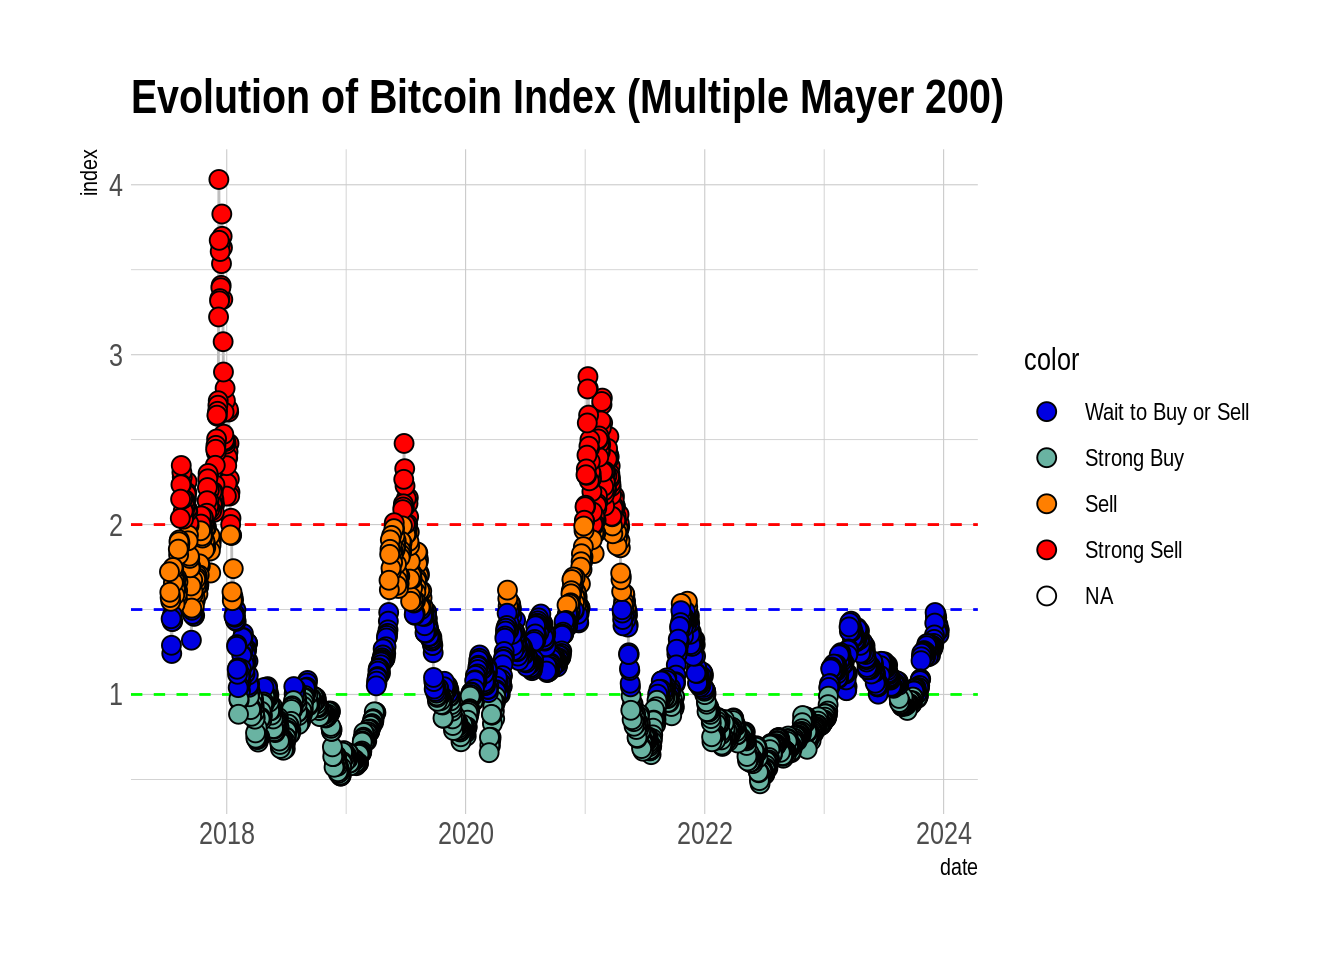
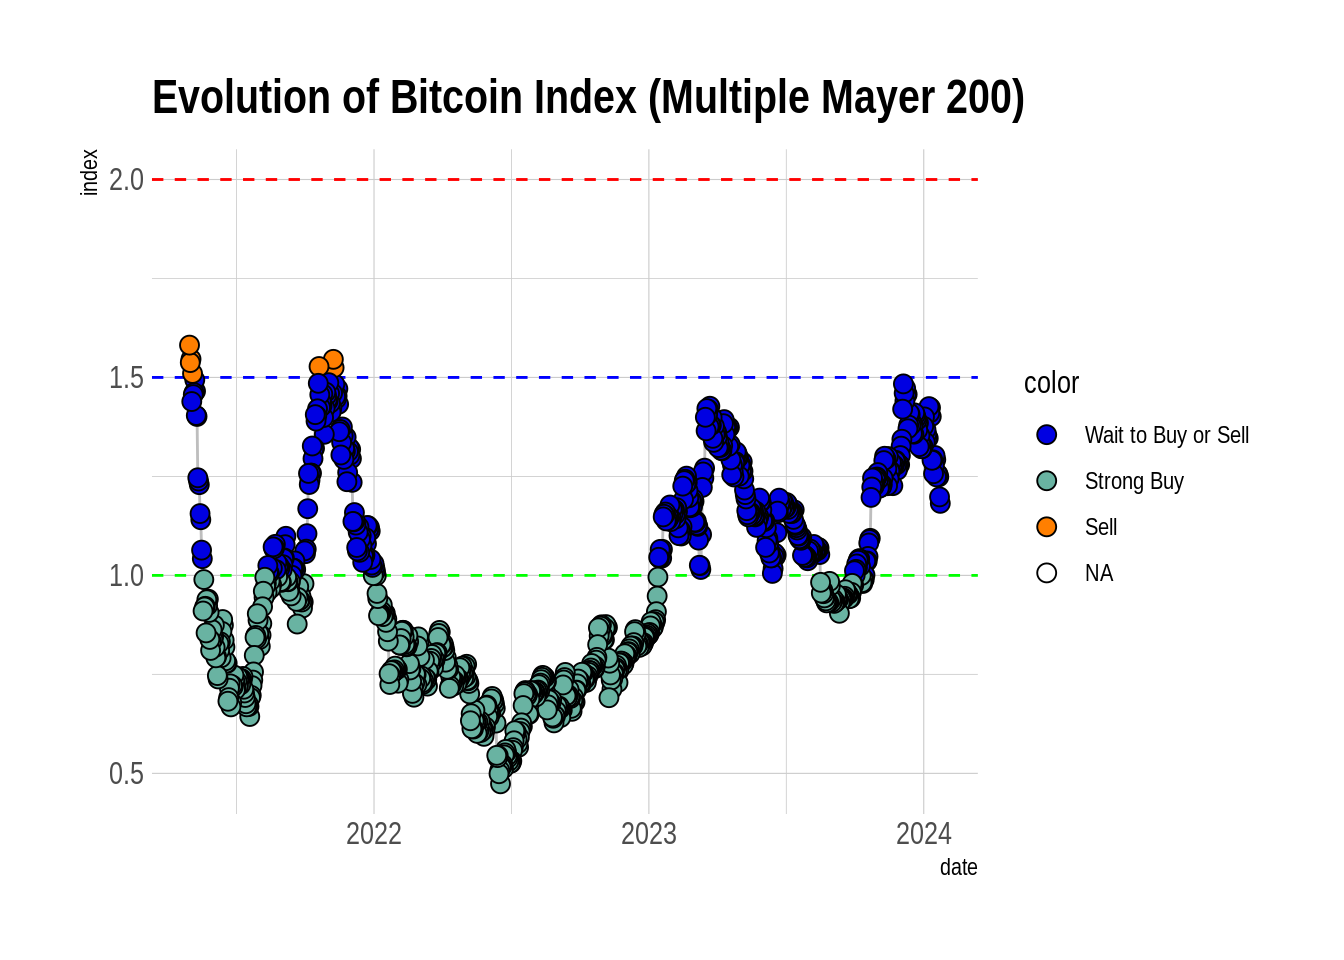
adding binancer as API

diff --git a/docs/index.html b/docs/index.html
@@ -382,7 +382,7 @@ aria-hidden="true"></span> </a>
 <div class="tab-content">
 <div id="summary" class="tab-pane fade in active">
 <p>
-<strong>Last updated:</strong> 2023-12-19
+<strong>Last updated:</strong> 2024-01-23
 </p>
 <p>
 <strong>Checks:</strong> <span
@@ -516,15 +516,15 @@ project makes it easier to run your code on other machines.</p>
 <div class="panel panel-default">
 <div class="panel-heading">
 <p class="panel-title">
-<a data-toggle="collapse" data-parent="#workflowr-checks" href="#strongRepositoryversionstrongahrefhttpsgithubcomchris263bitcoinindextreeeff8330eb4986a6d1a1f6700b33eaec67128eb2btargetblankeff8330a">
+<a data-toggle="collapse" data-parent="#workflowr-checks" href="#strongRepositoryversionstrongahrefhttpsgithubcomchris263bitcoinindextree860eef690451526f27e5e2716fdee915b13ebaaetargetblank860eef6a">
 <span class="glyphicon glyphicon-ok text-success"
 aria-hidden="true"></span> <strong>Repository version:</strong>
-<a href="https://github.com/chris263/bitcoin_index/tree/eff8330eb4986a6d1a1f6700b33eaec67128eb2b" target="_blank">eff8330</a>
+<a href="https://github.com/chris263/bitcoin_index/tree/860eef690451526f27e5e2716fdee915b13ebaae" target="_blank">860eef6</a>
 </a>
 </p>
 </div>
 <div
[2 lines of base64/hex data omitted]
 class="panel-collapse collapse">
 <div class="panel-body">
 <p>
@@ -534,7 +534,7 @@ reproducibility.
 </p>
 <p>
 The results in this page were generated with repository version
-<a href="https://github.com/chris263/bitcoin_index/tree/eff8330eb4986a6d1a1f6700b33eaec67128eb2b" target="_blank">eff8330</a>.
+<a href="https://github.com/chris263/bitcoin_index/tree/860eef690451526f27e5e2716fdee915b13ebaae" target="_blank">860eef6</a>.
 See the <em>Past versions</em> tab to see a history of the changes made
 to the R Markdown and HTML files.
 </p>
@@ -600,6 +600,57 @@ Message
 </tr>
 </thead>
 <tbody>
+<tr>
+<td>
+Rmd
+</td>
+<td>
+<a href="https://github.com/chris263/bitcoin_index/blob/860eef690451526f27e5e2716fdee915b13ebaae/analysis/index.Rmd" target="_blank">860eef6</a>
+</td>
+<td>
+chris263
+</td>
+<td>
+2023-12-19
+</td>
+<td>
+consertando palavra errada
+</td>
+</tr>
+<tr>
+<td>
+Rmd
+</td>
+<td>
+<a href="https://github.com/chris263/bitcoin_index/blob/b95bb448ab4bb857e33365d2131c764535479bd8/analysis/index.Rmd" target="_blank">b95bb44</a>
+</td>
+<td>
+chris263
+</td>
+<td>
+2023-12-19
+</td>
+<td>
+arrumando a coleta de dados com as datas
+</td>
+</tr>
+<tr>
+<td>
+html
+</td>
+<td>
+<a href="https://rawcdn.githack.com/chris263/bitcoin_index/b95bb448ab4bb857e33365d2131c764535479bd8/docs/index.html" target="_blank">b95bb44</a>
+</td>
+<td>
+chris263
+</td>
+<td>
+2023-12-19
+</td>
+<td>
+arrumando a coleta de dados com as datas
+</td>
+</tr>
 <tr>
 <td>
 Rmd
@@ -813,26 +864,25 @@ Start workflowr project.
 </div>
 <div id="resumo" class="section level2">
 <h2>Resumo</h2>
-<p>A ideia é capturar os dados usando como fonte o yahoo finance. A
-partir disso, calculamos o indice de Mayer(valor do momento do bitcoin
-dividido pela média mível dos últimos 200 dias). O intervalo de dados
-que estou usando é de Janeiro de 2017 até hoje.<br />
+<p>A ideia é capturar os dados usando como fonte o binancer. A partir
+disso, calculamos o indice de Mayer(valor do momento do bitcoin dividido
+pela média móvel dos últimos 200 dias).<br />
 A decisão é tomada de de acordo com:<br />
 Index &lt; 1 significa “Strong Buy”.<br />
 1 &lt; Index &lt; 1.5 Significa esperar um pouco para obersvar o
 mercado.<br />
 Index &gt; 1.5 Significa vender.<br />
 Index &gt; 2 Venda logo!!.</p>
+<p><img src="figure/index.Rmd/gettinData-1.png" width="672" style="display: block; margin: auto;" /><img src="figure/index.Rmd/gettinData-2.png" width="672" style="display: block; margin: auto;" /><img src="figure/index.Rmd/gettinData-3.png" width="672" style="display: block; margin: auto;" /></p>
 </div>
 <div id="calculando-o-indice" class="section level2">
 <h2>Calculando o Indice</h2>
-<p>Seguindo a recomendação para o dia:</p>
-<pre><code>Today 2023-12-19  Multiple Mayer&#39;s index is:  1.38 
- Price =  208744.5 
+<pre><code> Last date: 2024-01-23  Multiple Mayer&#39;s index is:  1.18 
+ Price =  R$ 196,159.00 
  The decision is:  Wait to Buy or Sell </code></pre>
 </div>
-<div id="análise-gráfica-7-anos" class="section level2">
-<h2>Análise Gráfica 7 Anos</h2>
+<div id="análise-gráfica-4-anos" class="section level2">
+<h2>Análise Gráfica 4 Anos</h2>
 <p><img src="figure/index.Rmd/grafico-1.png" width="672" style="display: block; margin: auto;" /></p>
 <p>
 <button type="button" class="btn btn-default btn-xs btn-workflowr btn-workflowr-fig" data-toggle="collapse" data-target="#fig-grafico-1">
@@ -856,6 +906,17 @@ Date
 </tr>
 </thead>
 <tbody>
+<tr>
+<td>
+<a href="https://github.com/chris263/bitcoin_index/blob/b95bb448ab4bb857e33365d2131c764535479bd8/docs/figure/index.Rmd/grafico-1.png" target="_blank">b95bb44</a>
+</td>
+<td>
+chris263
+</td>
+<td>
+2023-12-19
+</td>
+</tr>
 <tr>
 <td>
 <a href="https://github.com/chris263/bitcoin_index/blob/eff8330eb4986a6d1a1f6700b33eaec67128eb2b/docs/figure/index.Rmd/grafico-1.png" target="_blank">eff8330</a>
@@ -1000,41 +1061,45 @@ locale:
  [9] LC_ADDRESS=C               LC_TELEPHONE=C            
 [11] LC_MEASUREMENT=en_US.UTF-8 LC_IDENTIFICATION=C       
 
-time zone: America/New_York
+time zone: America/Sao_Paulo
 tzcode source: system (glibc)
 
 attached base packages:
 [1] stats     graphics  grDevices utils     datasets  methods   base     
 
 other attached packages:
-[1] hrbrthemes_0.8.0 ggplot2_3.4.4    dplyr_1.1.3      crypto2_1.4.5   
+[1] binancer_1.2.0   hrbrthemes_0.8.0 ggplot2_3.4.4    dplyr_1.1.3     
+[5] crypto2_1.4.5   
 
 loaded via a namespace (and not attached):
  [1] gtable_0.3.4            xfun_0.41               bslib_0.5.1            
- [4] vctrs_0.6.4             tools_4.3.2             generics_0.1.3         
- [7] curl_5.1.0              tibble_3.2.1            fansi_1.0.5            
-[10] highr_0.10              pkgconfig_2.0.3         lifecycle_1.0.4        
-[13] farver_2.1.1            compiler_4.3.2          stringr_1.5.0          
-[16] git2r_0.33.0            progress_1.2.2          munsell_0.5.0          
-[19] httpuv_1.6.12           fontquiver_0.2.1        fontLiberation_0.1.0   
-[22] htmltools_0.5.7         sass_0.4.7              yaml_2.3.7             
-[25] Rttf2pt1_1.3.12         later_1.3.1             pillar_1.9.0           
-[28] crayon_1.5.2            jquerylib_0.1.4         whisker_0.4.1          
-[31] extrafontdb_1.0         tidyr_1.3.0             ellipsis_0.3.2         
-[34] gfonts_0.2.0            cachem_1.0.8            mime_0.12              
-[37] fontBitstreamVera_0.1.1 tidyselect_1.2.0        digest_0.6.33          
-[40] stringi_1.7.12          purrr_1.0.2             labeling_0.4.3         
-[43] extrafont_0.19          rprojroot_2.0.4         fastmap_1.1.1          
-[46] grid_4.3.2              colorspace_2.1-0        cli_3.6.1              
-[49] magrittr_2.0.3          crul_1.4.0              utf8_1.2.4             
-[52] withr_2.5.2             prettyunits_1.2.0       gdtools_0.3.5          
-[55] scales_1.2.1            promises_1.2.1          lubridate_1.9.3        
-[58] timechange_0.2.0        rmarkdown_2.25          workflowr_1.7.1        
-[61] hms_1.1.3               shiny_1.7.5.1           evaluate_0.23          
-[64] knitr_1.45              rlang_1.1.2             Rcpp_1.0.11            
-[67] xtable_1.8-4            glue_1.6.2              httpcode_0.3.0         
-[70] rstudioapi_0.15.0       jsonlite_1.8.7          R6_2.5.1               
-[73] plyr_1.8.9              systemfonts_1.0.5       fs_1.6.3               </code></pre>
+ [4] lattice_0.22-5          vctrs_0.6.4             tools_4.3.2            
+ [7] generics_0.1.3          curl_5.1.0              tibble_3.2.1           
+[10] fansi_1.0.5             highr_0.10              xts_0.13.1             
+[13] pkgconfig_2.0.3         data.table_1.14.8       lifecycle_1.0.4        
+[16] farver_2.1.1            compiler_4.3.2          stringr_1.5.0          
+[19] git2r_0.33.0            progress_1.2.2          munsell_0.5.0          
+[22] snakecase_0.11.1        httpuv_1.6.12           fontquiver_0.2.1       
+[25] fontLiberation_0.1.0    htmltools_0.5.7         sass_0.4.7             
+[28] yaml_2.3.7              Rttf2pt1_1.3.12         later_1.3.1            
+[31] pillar_1.9.0            crayon_1.5.2            jquerylib_0.1.4        
+[34] whisker_0.4.1           extrafontdb_1.0         tidyr_1.3.0            
+[37] ellipsis_0.3.2          gfonts_0.2.0            cachem_1.0.8           
+[40] mime_0.12               fontBitstreamVera_0.1.1 tidyselect_1.2.0       
+[43] digest_0.6.33           stringi_1.7.12          purrr_1.0.2            
+[46] labeling_0.4.3          extrafont_0.19          rprojroot_2.0.4        
+[49] fastmap_1.1.1           grid_4.3.2              colorspace_2.1-0       
+[52] cli_3.6.1               logger_0.2.2            magrittr_2.0.3         
+[55] crul_1.4.0              utf8_1.2.4              withr_2.5.2            
+[58] prettyunits_1.2.0       gdtools_0.3.5           scales_1.2.1           
+[61] promises_1.2.1          lubridate_1.9.3         timechange_0.2.0       
+[64] TTR_0.24.4              httr_1.4.7              rmarkdown_2.25         
+[67] quantmod_0.4.25         workflowr_1.7.1         zoo_1.8-12             
+[70] hms_1.1.3               shiny_1.7.5.1           evaluate_0.23          
+[73] knitr_1.45              rlang_1.1.2             Rcpp_1.0.11            
+[76] xtable_1.8-4            glue_1.6.2              httpcode_0.3.0         
+[79] rstudioapi_0.15.0       jsonlite_1.8.7          R6_2.5.1               
+[82] plyr_1.8.9              systemfonts_1.0.5       fs_1.6.3               </code></pre>
 </div>
 </div>
 
